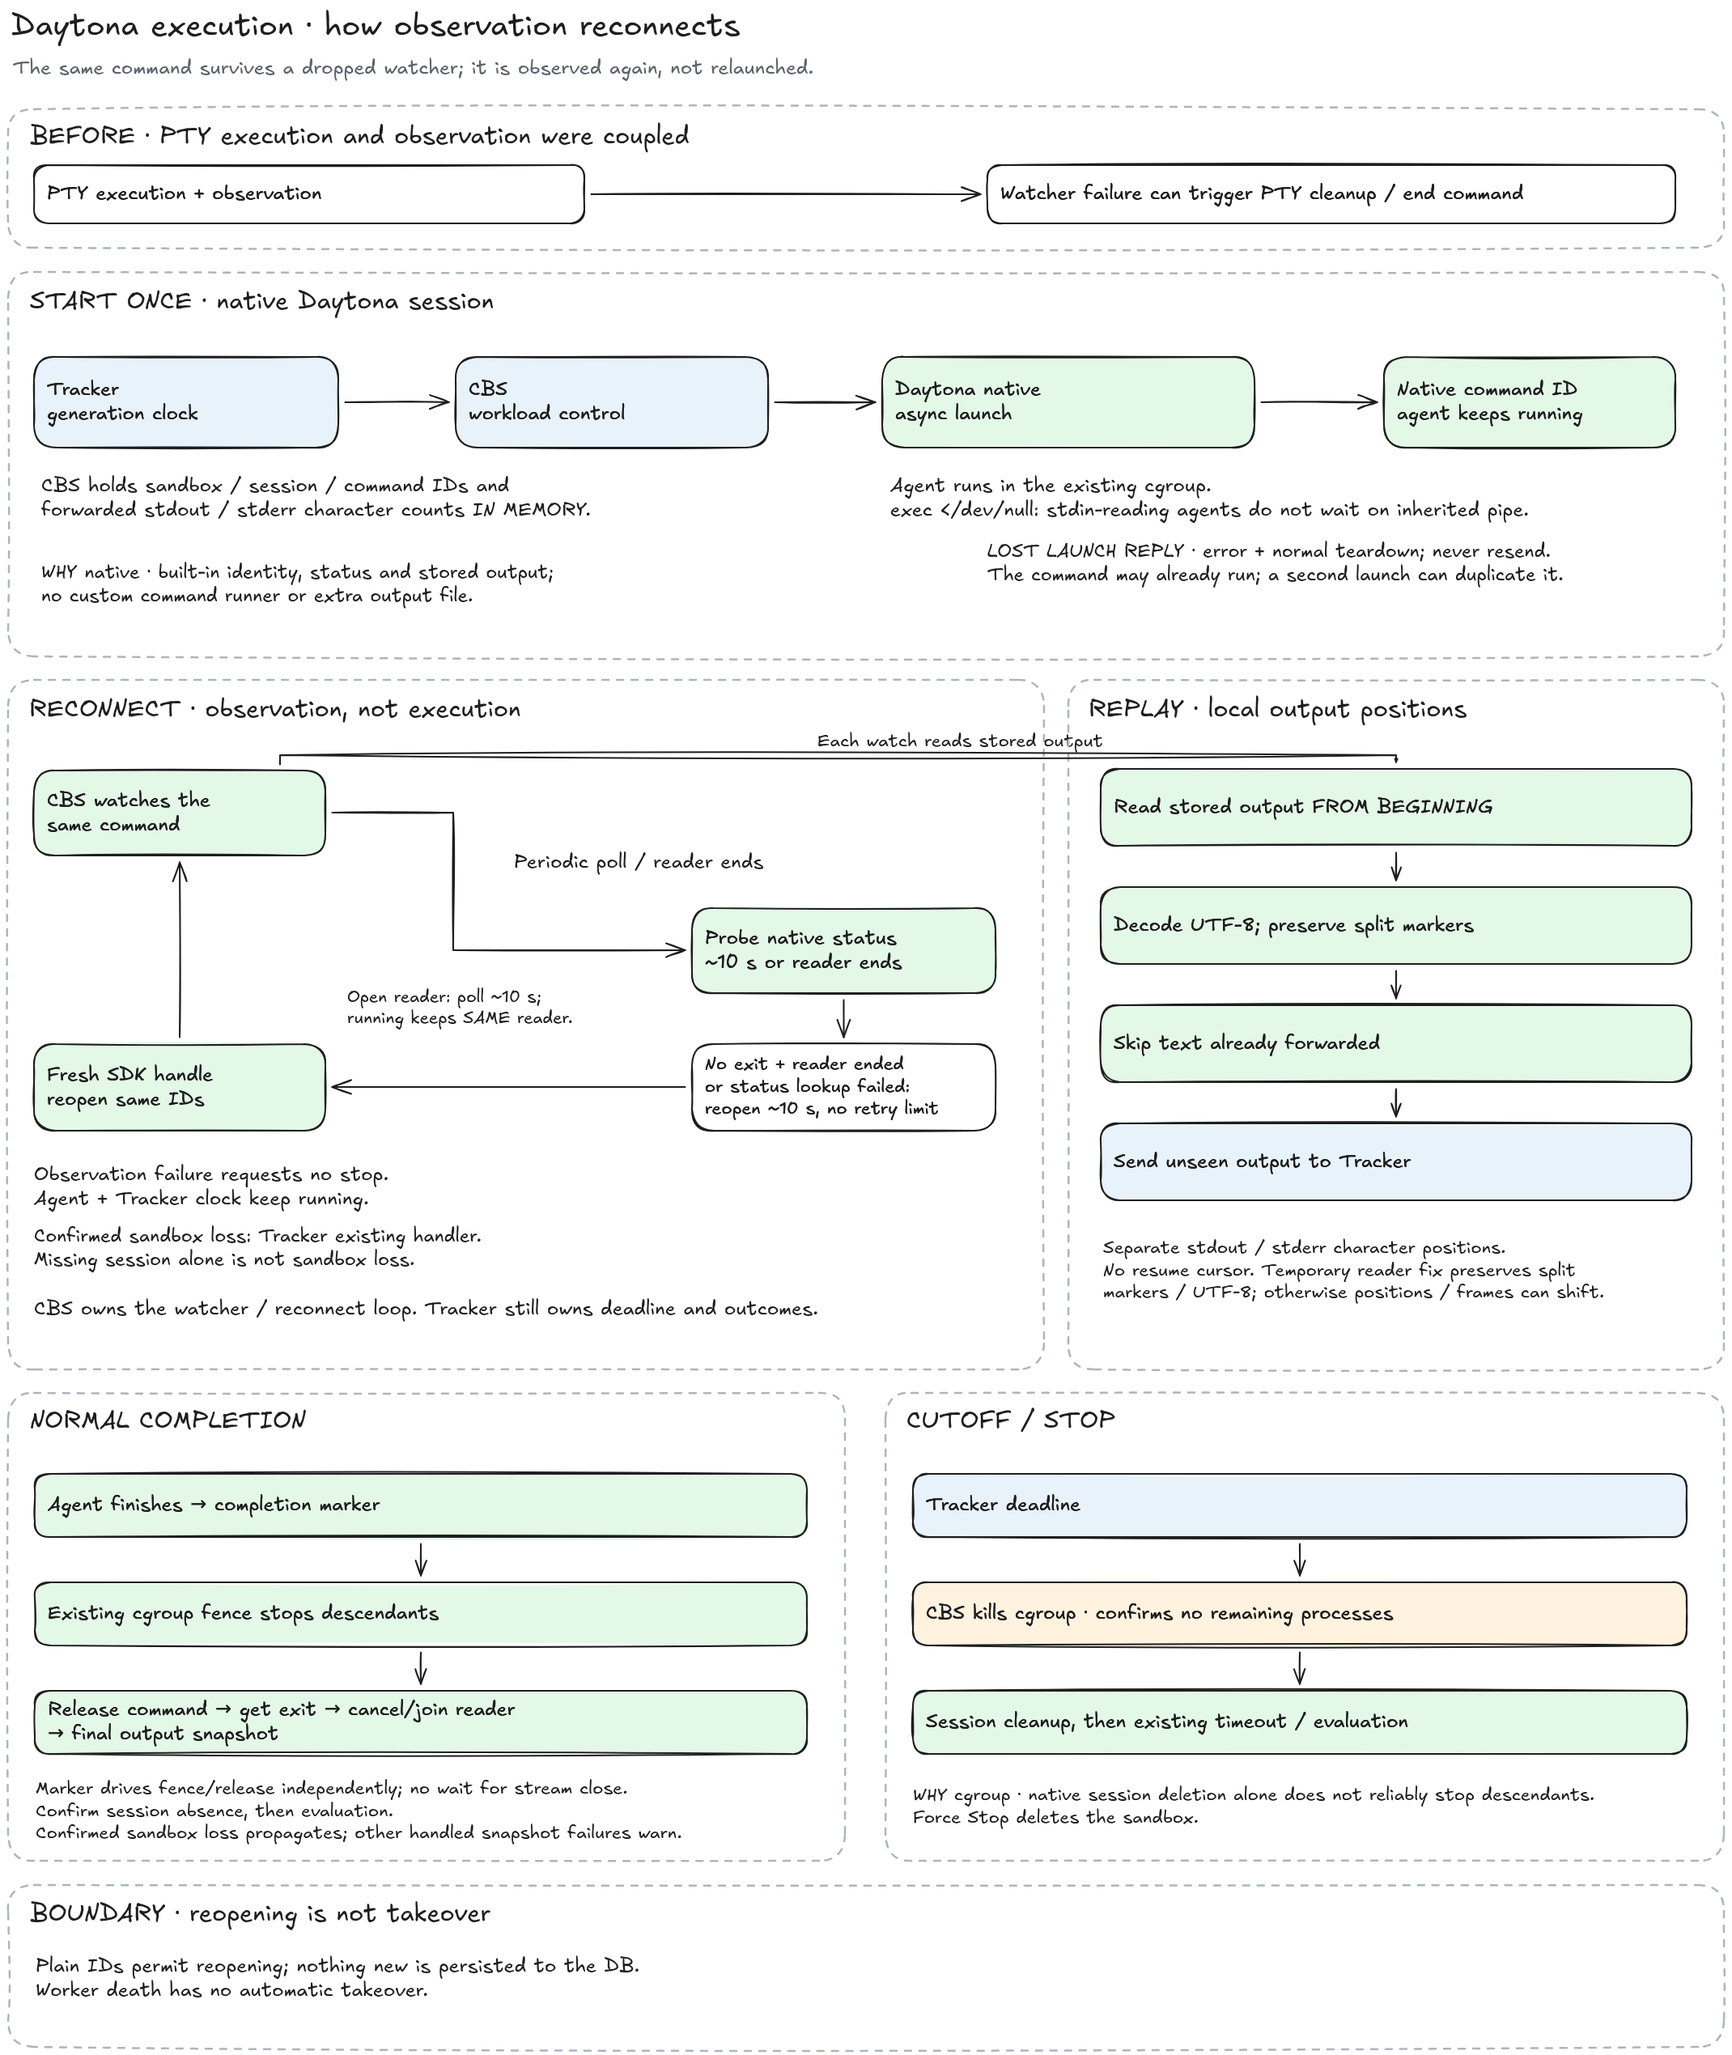
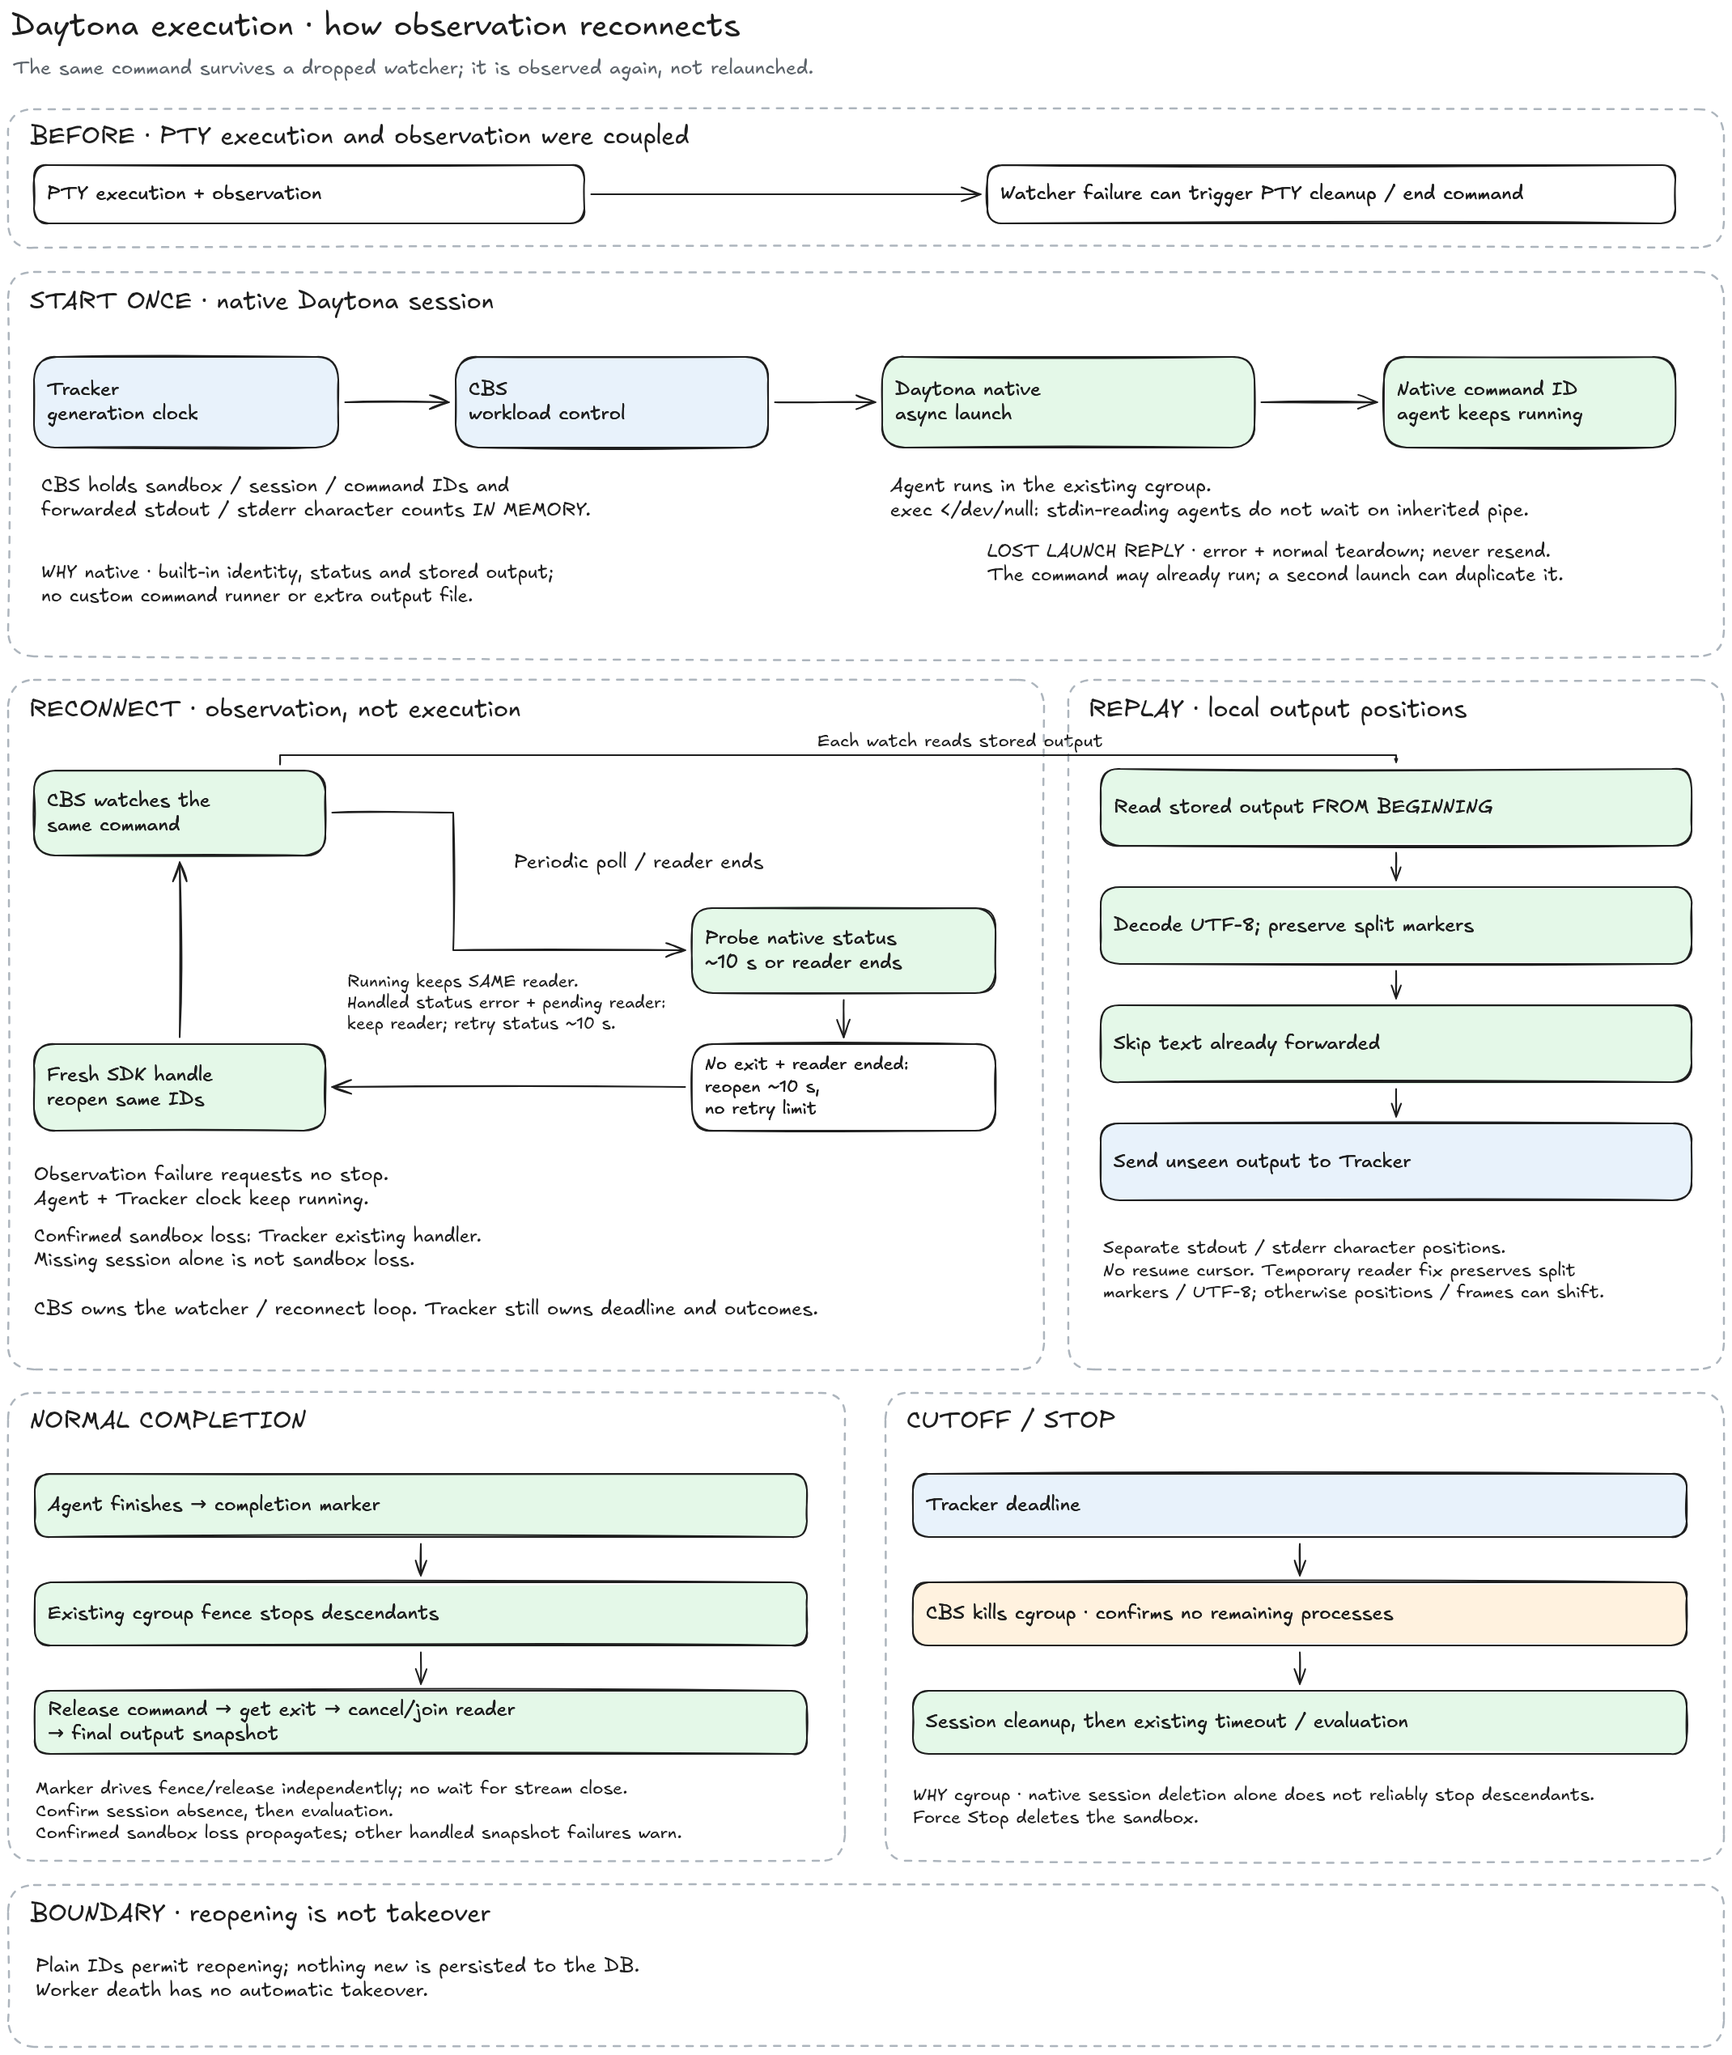
fix(daytona): retain follower and reconcile output

diff --git a/tests/test_sandbox.py b/tests/test_sandbox.py
@@ -4685,6 +4685,69 @@ async def test_daytona_native_reopens_same_command_and_forwards_each_stream_once
     assert not process.group_exists
     assert process.sessions == set()
 
+@pytest.mark.usefixtures("_fake_cgroup_follow")
+async def test_daytona_native_status_failure_keeps_pending_follow(
+    monkeypatch: pytest.MonkeyPatch,
+) -> None:
+    monkeypatch.setattr(daytona_module, "_SESSION_WATCH_REOPEN_SECONDS", 0.01)
+
+    class PendingFollowProcess(CgroupProcess):
+        def __init__(self) -> None:
+            super().__init__()
+            self.status_error = True
+            self.stdout = "before-"
+            self.recovered_status = asyncio.Event()
+            self.send_later_output = asyncio.Event()
+            self.later_output_sent = asyncio.Event()
+            self.status_calls = 0
+
+        async def get_session_command_logs_async(
+            self, session_id: str, command_id: str,
+            on_stdout: Callable[[str], Awaitable[None]],
+            on_stderr: Callable[[str], Awaitable[None]],
+        ) -> None:
+            self.follow_calls += 1
+            await on_stdout(self.stdout)
+            await self.send_later_output.wait()
+            self.stdout += "after-status-"
+            await on_stdout("after-status-")
+            self.later_output_sent.set()
+            await self.release_seen.wait()
+            self.stdout += "final frame"
+            await on_stdout("final frame")
+
+        async def get_session_command(self, session_id: str, command_id: str) -> SimpleNamespace:
+            self.status_calls += 1
+            status = await super().get_session_command(session_id, command_id)
+            if status.exit_code is None:
+                self.recovered_status.set()
+            return status
+
+    process = PendingFollowProcess()
+    process.allow_creation.set()
+    process.allow_removal.set()
+    workload = _cgroup_sandbox(process).controlled_workload("exit 7")
+    try:
+        await asyncio.wait_for(process.recovered_status.wait(), 2)
+        assert process.status_calls >= 2
+        assert process.follow_calls == 1
+        process.send_later_output.set()
+        await asyncio.wait_for(process.later_output_sent.wait(), 2)
+        assert process.follow_calls == 1
+        process.user_finished.set()
+        completed = await asyncio.wait_for(workload.wait(), 2)
+        streamed = "".join([chunk async for chunk in workload.output()])
+        assert completed.result.exit_code == 7
+        assert streamed == "before-after-status-final frame"
+        assert process.execute_calls == 1
+        assert process.follow_calls == 1
+        assert not process.group_exists
+        assert process.sessions == set()
+    finally:
+        process.send_later_output.set()
+        if process.sessions:
+            await asyncio.wait_for(workload.kill(), 2)
+
 
 @pytest.mark.usefixtures("_fake_cgroup_follow")
 async def test_daytona_reopen_from_ids_survives_discarded_launch_adapter(
@@ -4878,6 +4941,52 @@ async def test_daytona_native_watcher_normal_follow_close_replays_uncommitted_ta
     )
     assert second_result[0] == 7
     assert "".join(forwarded) == canonical
+    assert first.closed and second.closed
+
+async def test_daytona_native_watcher_malformed_follow_matches_final_snapshot_after_reopen(
+    monkeypatch: pytest.MonkeyPatch,
+) -> None:
+    stdout = "A\ufffd\ufffdB\ufffd\ufffdC|TAIL-9Z\n"
+    stderr = "E\ufffd\ufffdZ|ERR-TAIL-9Z\n"
+    raw_stdout = b"A\xe2\x82B\xe2\x82C|TAIL-9Z\n"
+    raw_stderr = b"E\xf0\x90Z|ERR-TAIL-9Z\n"
+    first = RawLogWebSocket([
+        _raw_log_frame(b"\x01\x01\x01A\xe2"),
+        _raw_log_frame(b"\x82B\xe2\x82C|TAIL-9Z\n\x02\x02\x02" + raw_stderr),
+        _normal_log_close(),
+    ])
+    second = RawLogWebSocket([
+        _raw_log_frame(b"\x01\x01\x01" + raw_stdout + b"\x02\x02\x02" + raw_stderr),
+        _normal_log_close(),
+    ])
+    sockets = iter([first, second])
+
+    async def open_ws(self: Any, url: str, headers: dict[str, str]) -> RawLogWebSocket:
+        return next(sockets)
+
+    monkeypatch.setattr(daytona_module._NativeSessionLogProcess, "_open_ws", open_ws)  # pyright: ignore[reportPrivateUsage]
+    process = CgroupProcess()
+    process.stdout = stdout
+    process.stderr = stderr
+    inner = InnerSandbox()
+    inner.process = process
+    client = CgroupDaytonaClient(inner, process)
+    forwarded: list[str] = []
+    closed = asyncio.Event()
+
+    first_result = await daytona_module._watch_session_command(  # pyright: ignore[reportPrivateUsage]
+        cast(Any, client), inner.id, "session", "command", 0, 0, forwarded.append, closed,
+    )
+    assert first_result == (None, len(stdout), len(stderr))
+    assert "".join(forwarded) == stdout + stderr
+
+    process.release_seen.set()
+    second_result = await daytona_module._watch_session_command(  # pyright: ignore[reportPrivateUsage]
+        cast(Any, client), inner.id, "session", "command", first_result[1], first_result[2],
+        forwarded.append, closed,
+    )
+    assert second_result == (7, len(stdout), len(stderr))
+    assert "".join(forwarded) == process.stdout + process.stderr
     assert first.closed and second.closed
 
 

diff --git a/src/benchmark_service/sandbox/daytona.py b/src/benchmark_service/sandbox/daytona.py
@@ -114,6 +114,7 @@ _PTY_STATUS_CHECK_ATTEMPTS = 30
 _PTY_STATUS_POLL_SECONDS = 30
 _PTY_STDOUT_TAIL_MAX_BYTES = 64 * 1024
 _SESSION_WATCH_REOPEN_SECONDS = 10
+_INVALID_UTF8_BYTES = dict.fromkeys(range(0xDC80, 0xDD00), "\ufffd")
 _PTY_CREATE_MARKER_ENV = "_CBS_PTY_CREATE_MARKER"
 _PTY_ROWS = 24
 _PTY_COLS = 80
@@ -1022,7 +1023,7 @@ async def _get_watched_sandbox(client: AsyncDaytona, sandbox_id: str) -> AsyncSa
 
 
 class _NativeSessionLogProcess(AsyncProcess):
-    # Remove after upgrading Daytona to a version with fixed marker parsing and unconfirmed-stream buffering.
+    # Retain until the SDK handles markers, unconfirmed streams, and malformed-byte follow/snapshot parity.
     async def _consume_log_websocket(
         self,
         url: str,
@@ -1033,8 +1034,8 @@ class _NativeSessionLogProcess(AsyncProcess):
         ws = await self._open_ws(url, headers)
         buffer = bytearray()
         stream: str | None = None
-        stdout_decoder = codecs.getincrementaldecoder("utf-8")(errors="replace")
-        stderr_decoder = codecs.getincrementaldecoder("utf-8")(errors="replace")
+        stdout_decoder = codecs.getincrementaldecoder("utf-8")(errors="surrogateescape")
+        stderr_decoder = codecs.getincrementaldecoder("utf-8")(errors="surrogateescape")
 
         async def emit(payload: bytes) -> None:
             if stream == "stdout":
@@ -1045,8 +1046,9 @@ class _NativeSessionLogProcess(AsyncProcess):
                 handler = on_stderr
             else:
                 return
+            # Daytona snapshots replace each malformed source byte before text offsets are counted.
             if text:
-                result = handler(text)
+                result = handler(text.translate(_INVALID_UTF8_BYTES))
                 if inspect.isawaitable(result):
                     await result
 
@@ -1139,9 +1141,9 @@ async def _watch_session_command(
         log_process.get_session_command_logs_async(session_id, command_id, on_stdout, on_stderr)
     )
     closed_task = asyncio.create_task(closed.wait())
-    watch_error: Exception | None = None
     try:
         while True:
+            watch_error: Exception | None = None
             done, _ = await asyncio.wait(
                 {follow_task, closed_task},
                 timeout=_SESSION_WATCH_REOPEN_SECONDS,
@@ -1169,7 +1171,7 @@ async def _watch_session_command(
                 status = None
             if closed.is_set():
                 raise SandboxError("Controlled workload closed before command exit")
-            if follow_task in done or status is None or status.exit_code is not None:
+            if follow_task in done or (status is not None and status.exit_code is not None):
                 break
     finally:
         follow_task.cancel()
@@ -1196,12 +1198,20 @@ async def _watch_session_command(
             forwarded_stderr = max(forwarded_stderr, len(stderr))
         except (*_SANDBOX_OPERATION_ERRORS, SandboxConnectionError) as exc:
             await _raise_if_sandbox_gone(client, sandbox_id)
-            logger.warning("Daytona controlled final log snapshot failed: %s", exc)
+            logger.warning(
+                "Daytona controlled final log snapshot failed for sandbox=%s session=%s command=%s: %s",
+                sandbox_id,
+                session_id,
+                command_id,
+                exc,
+            )
         return status.exit_code, forwarded_stdout, forwarded_stderr
     logger.warning(
-        "Daytona controlled session watch ended without exit status for %s: %s",
+        "Daytona controlled session watch ended without exit status for sandbox=%s session=%s command=%s: %s",
         sandbox_id,
-        watch_error,
+        session_id,
+        command_id,
+        watch_error if watch_error is not None else "log stream closed",
     )
     return None, forwarded_stdout, forwarded_stderr
 

diff --git a/README.md b/README.md
@@ -286,24 +286,39 @@ A direct Daytona sandbox supports `LINUX_CGROUP_V2_V1` (`linux_cgroup_v2` v1).
 `sandbox.controlled_workload(command, cwd=..., env_vars=...)` launches one native
 asynchronous Daytona session command whose child enters a dedicated cgroup v2
 subgroup. Its stdin is `/dev/null`, so noninteractive readers see EOF at launch.
+Stdout and stderr use pipes, not a PTY. Agents must flush output when they need
+logs delivered promptly; output still buffered inside the agent can be lost when
+it is killed. CBS does not force unbuffered mode.
 The shell stays outside the subgroup and publishes completion before
 release, so descendants are fenced before the native exit status and final output
 are returned. Natural completion and `kill()` use `cgroup.kill`, confirm
 `populated 0`, and remove the subgroup; the native session is also confirmed absent.
-The watcher checks command status about every 10 seconds while following logs,
-and whenever the follower ends. A known exit does not depend on the log connection
-closing. After exit, the watcher cancels and joins the reader, then makes one final
+The watcher checks command status on a 10-second idle interval while following logs,
+and whenever the follower ends. Network calls can add time; the interval is not a
+latency bound. A known exit does not depend on the log connection closing.
+After exit, the watcher cancels and joins the reader, then makes one final
 log snapshot request. Confirmed sandbox removal raises `SandboxNotFoundError`;
-other handled snapshot failures warn without retrying or changing the command exit
-result. While command exit is unknown, an observed sandbox `STOPPED` or `ERROR`
+other handled snapshot failures warn with sandbox, session, and command identifiers
+without retrying or changing the command exit result; any tail not already followed
+can then be lost. Native Daytona follow keeps
+incomplete UTF-8 sequences across chunks and replaces each malformed byte with
+`U+FFFD` before forwarding, consistent with the observed final snapshot text.
+Reopen and final-snapshot suffixes use separate stdout/stderr character offsets;
+this text stream does not preserve the original malformed bytes. While command exit
+is unknown, an observed sandbox `STOPPED` or `ERROR`
 ends the watcher with `SandboxError`; `wait()` reports that observed failure promptly
 even if independent cgroup and session cleanup is still pending. A later cleanup
 failure is logged. If cleanup fails after a separate observed sandbox loss,
 `wait()` raises the original `SandboxNotFoundError` and logs the distinct cleanup
 failure once; a mirrored copy of the same exception is not a second failure.
 Other failures retain cleanup-first ordering. Success still waits for cleanup and
-confirmed absence. Transient output and status observation
-failures reopen the same command without restarting it or stopping the workload.
+confirmed absence. After a handled status-query error with a pending log follower,
+if the existing sandbox-state check does not establish confirmed loss or
+`STOPPED`/`ERROR`, the watcher retains that follower and retries status on the
+same idle interval. If the follower ends without a known exit, the watcher reopens
+it for the same command at saved forwarded offsets, without restarting or stopping
+the workload. Its warning identifies sandbox, session, and command, and reports
+the captured watcher error or that the log stream closed.
 Completion-marker observation retries independently.
 The caller still owns the deadline and explicit stop. The probe
 requires writable cgroup v2 delegation with `cgroup.kill`; other sandbox services
